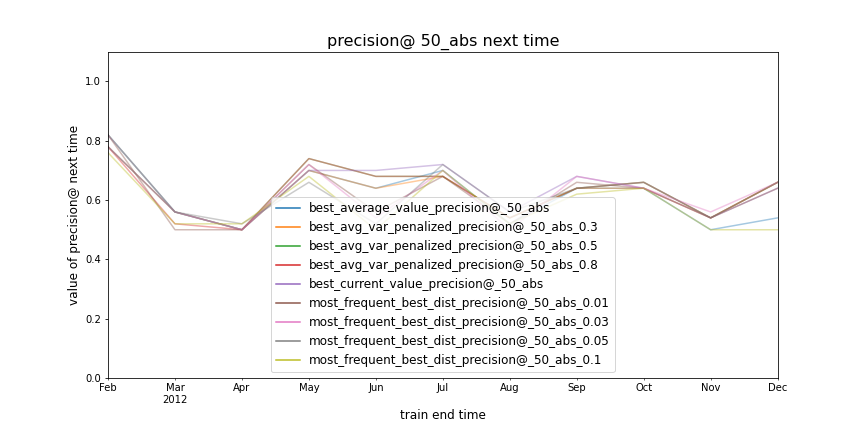
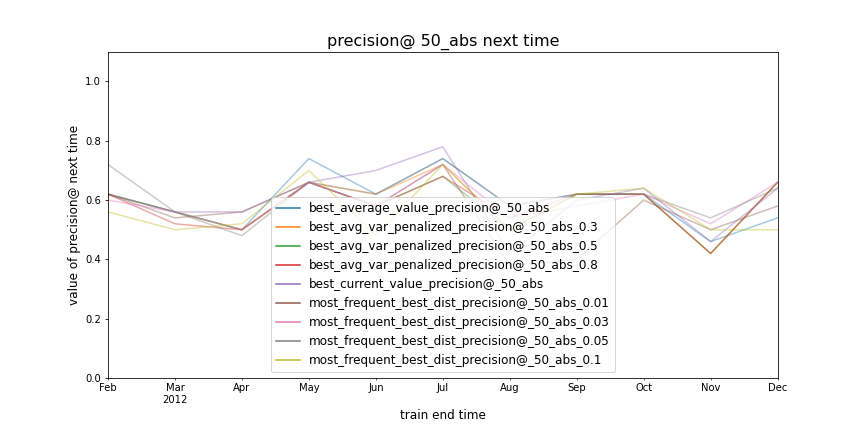
Some tweaks to readme

Changed region(s): [[0.125, 0.331, 0.5625, 0.5417], [0.625, 0.3912, 0.9062, 0.6019], [0.5938, 0.4815, 0.625, 0.5116]]

diff --git a/README.md b/README.md
@@ -60,30 +60,35 @@ Let's start by stating our qualitative understanding of the problem. Then, we'll
 
 ### Qualitative Framing
 
-DonorsChoose wants to institute a program where a group of projects at risk of falling short on funding are selected to recieve extra support: enrollment in a matching grant program funded by DonorsChoose's corporate partners, and prominent placement on the DonorsChoose project discovery page.
-
-Since these interventions have limited capacity (funding is limited, and only a few projects at a time can really benefit from extra promotion on the homepage), we will identify 50 projects posted each month that need extra support.
-
 Once a DonorsChoose project has been posted, it can recieve donations for four months. If it doesn't reach its funding goal by then, it is considered unfunded.
 
-Therefore, our goal is to identify a machine learning model that identifies the 50 projects posted each month that are most likely to fail to reach their funding goal by four months later.
+DonorsChoose wants to institute a program where a group of projects at risk of falling short on funding are selected to recieve extra support: enrollment in a matching grant program funded by DonorsChoose's corporate partners, and prominent placement on the DonorsChoose project discovery page.
+
+These interventions have limited capacity: funding is limited, and only a few projects at a time can really benefit from extra promotion on the homepage. Each day, DonorsChoose chooses a few newly-posted projects to be enrolled in these interventions, based on information in their application for funding. Each month, 50 projects in total are enrolled in the interventions.
+
+Therefore, our goal is to identify a machine learning model that identifies the 50 projects posted each month that are most likely to fail to reach their funding goal.
 
 ### Triage Framing
 
 #### Temporal Config
 
-##### Start & End Times
-For this project. we're using data from the projects posted between September 1, 2011 and June 1, 2013. 
+##### Start & end times
+
+![project_counts_by_month](triage_output/project_counts_by_month.png)
+
+DonorsChoose project applications grew significantly during 2010 and 2011. We select a dataset starting in mid-2011, after this period of growth, and running through the end of 2013, the last compete year of data.
 
 ```
-feature_start_time: '2011-09-01'
-label_start_time: '2011-09-01'
+feature_start_time: '2011-09-02'
+label_start_time: '2011-09-02'
 
 feature_end_time: '2013-06-01'
 label_end_time: '2013-06-01'
 ```
 
-##### Model Update Frequency
+> Starting with September 1, 2011 causes Triage to generate a useless 13th training set containing a single day's worth of projects. We start our data on September 2nd to avoid this.
+
+##### Model update frequency
 Each month, the previous month's data becomes availabe for training a new model. 
 
 `model_update_frequency: '1month'`
@@ -94,17 +99,24 @@ Our model will make predictions once a month, on the previous month's unlabeled 
 
 `test_durations:['1month']`
 
-##### Training History
+##### Training history
 
 Patterns in the DonorsChoose data can change significantly within a year. We use one-month training sets ensuring that our models are trained on recent data, and capture recent trends.
 
 `max_training_histories: ['1month']`
 
-##### Label Timespan
+##### As of date frequencies
 
-An entity's label timespan is the amount of time that must pass from when an event occurs, to its 
+When the model is in production, DonorsChoose will evaluate new projects daily. We use a 1 day as of date frequency to simulate the rate at which DonorsChoose will evaluate the model's predictions.
 
-A project's label can only be measured four months after it has been posting. This means that each project has a four month label timespan.
+```
+training_as_of_date_frequencies: ['1day']
+test_as_of_date_frequencies: ['1day']
+```
+
+##### Label timespan
+
+An proejct's label timespan is the amount of time that must pass from when a project is posted, to when its label can be determined. In our case, each project has a four month label timespan.
 
 ```
 training_label_timespans: ['4month']
@@ -146,12 +158,39 @@ These aggregations would be too complex to perform with Triage's feature aggrega
 
 The DDL statements that create these features are stored in [precompute_queries](precompute_queries)
 
-## Model Selection
+## Modeling
 
-We use Auditioner to manage model selection. Plotting precision@50_abs over time shows that our models are generally performing well. Performance ranges from ~0.5 to 0.8, well above the prior rate of ~0.3.
+### Model Grid
+
+Our model grid includes three model function candidates, and three baseline sources.
+
+Model function candidates:
+- sklearn.ensemble.RandomForestClassifier
+- sklearn.linear_model.LogisticRegression
+- sklearn.tree.DecisionTreeClassifier
+
+Baslines:
+- sklearn.tree.DecisionTreeClassifier (max_depth = 2)
+- sklearn.dummy.DummyClassifier (predicting our label's base rate)
+- triage's PercentileRankeOneFeature, which ranks entities based on a single feature.
+
+### Model Selection
+
+![precision@50_over_time_all_models](triage_output/metric_over_time_precision@50_abs_all_models.png)
+
+We use Auditioner to manage model selection. Plotting precision@50_abs over time shows that our models are generally performing well - most models perform better than baselines (sklearn's DummyClassifier predicting the label's prevalence for all projects, and a 2-depth decision tree).
+
+Our logistic regression model groups tend to perform worse than our random forests. The diference in performance (as much as .25) doesn't justify a tradeoff for the models' potential higher interpretability.
+
+
+
+We use Auditioner to perform some coarse filtering, eliminating the worst-performing model groups:
+- Dropping model groups that achieved precision@50 worse than 0.5 in at least one test set
+- Dropping model groups that had a regret (difference in performance from the best-performing model group) of 0.2 or greater during at least one month
+
+Performance in the resulting set of model groups ranges from ~0.5 to 0.8, well above the prior rate of ~0.3. Looking pretty good so far.
 
 ![precision@50_over_time](triage_output/metric_over_time_precision@50_abs.png)
-
 Building a basic Auditioner model selection grid, it looks like variance-penalized average precision (penalty = 0.5) and best current precision minimize regret.
 
 |Criteria|Average regret (precision @ 50_abs)|
